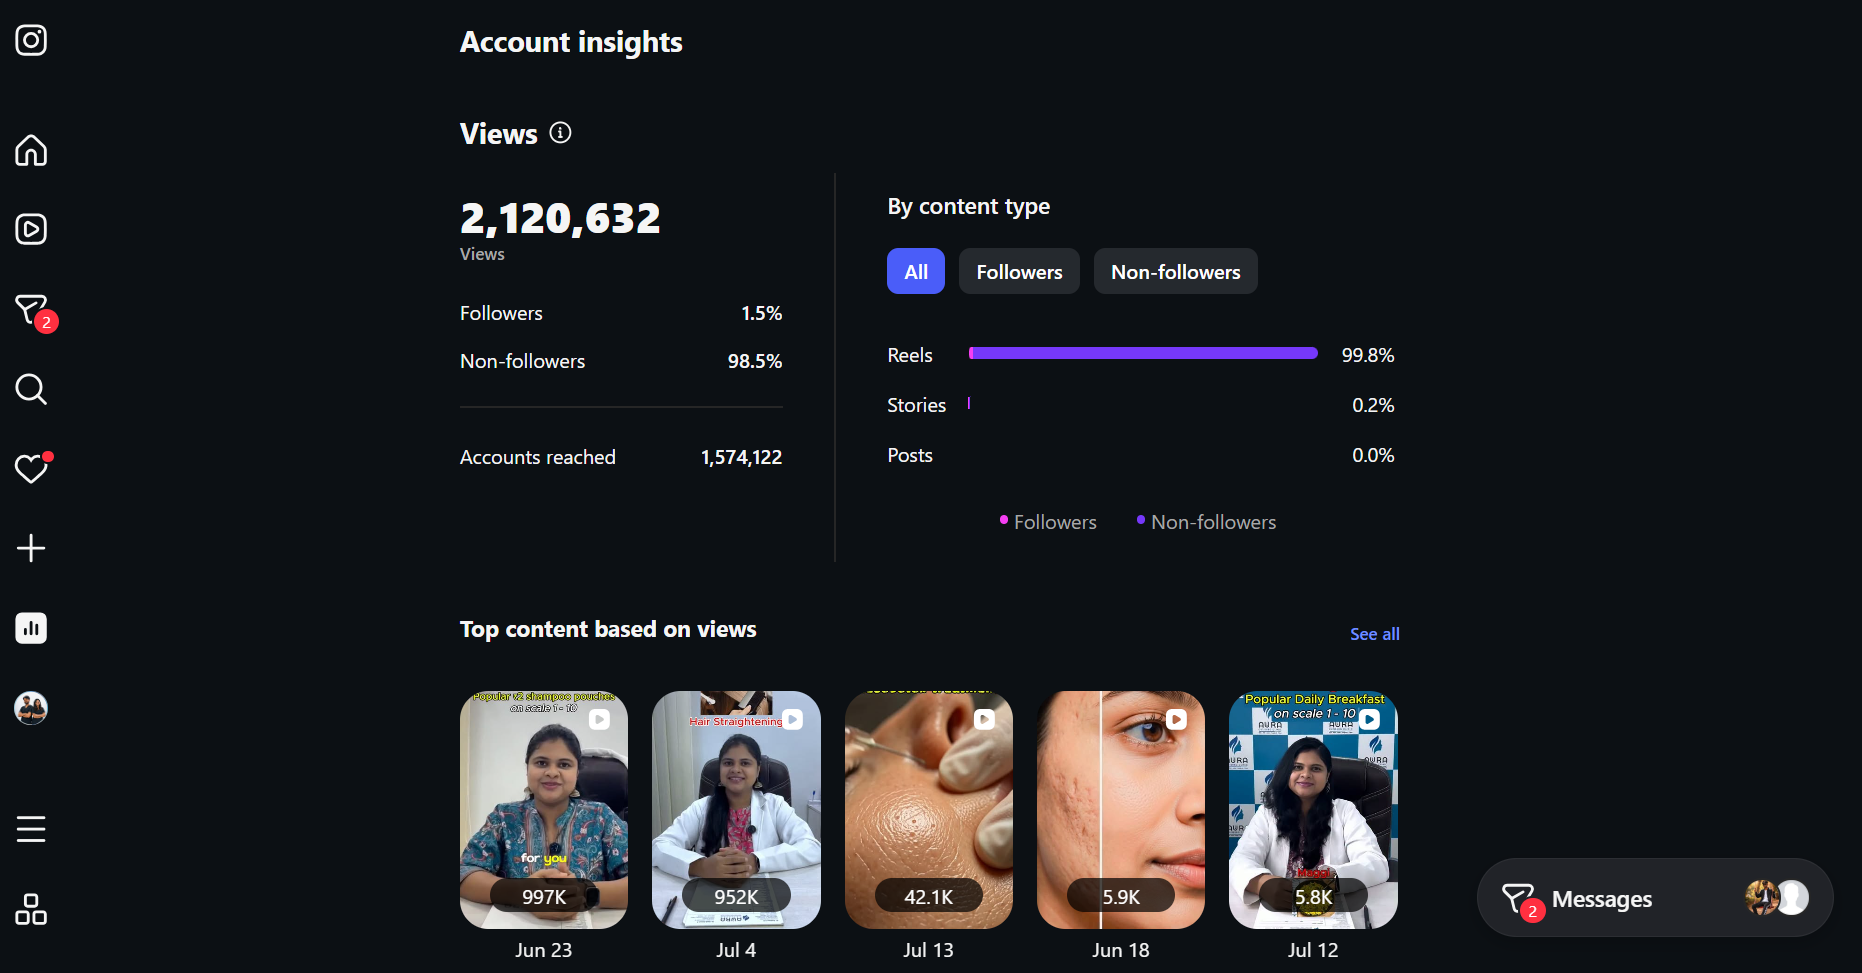
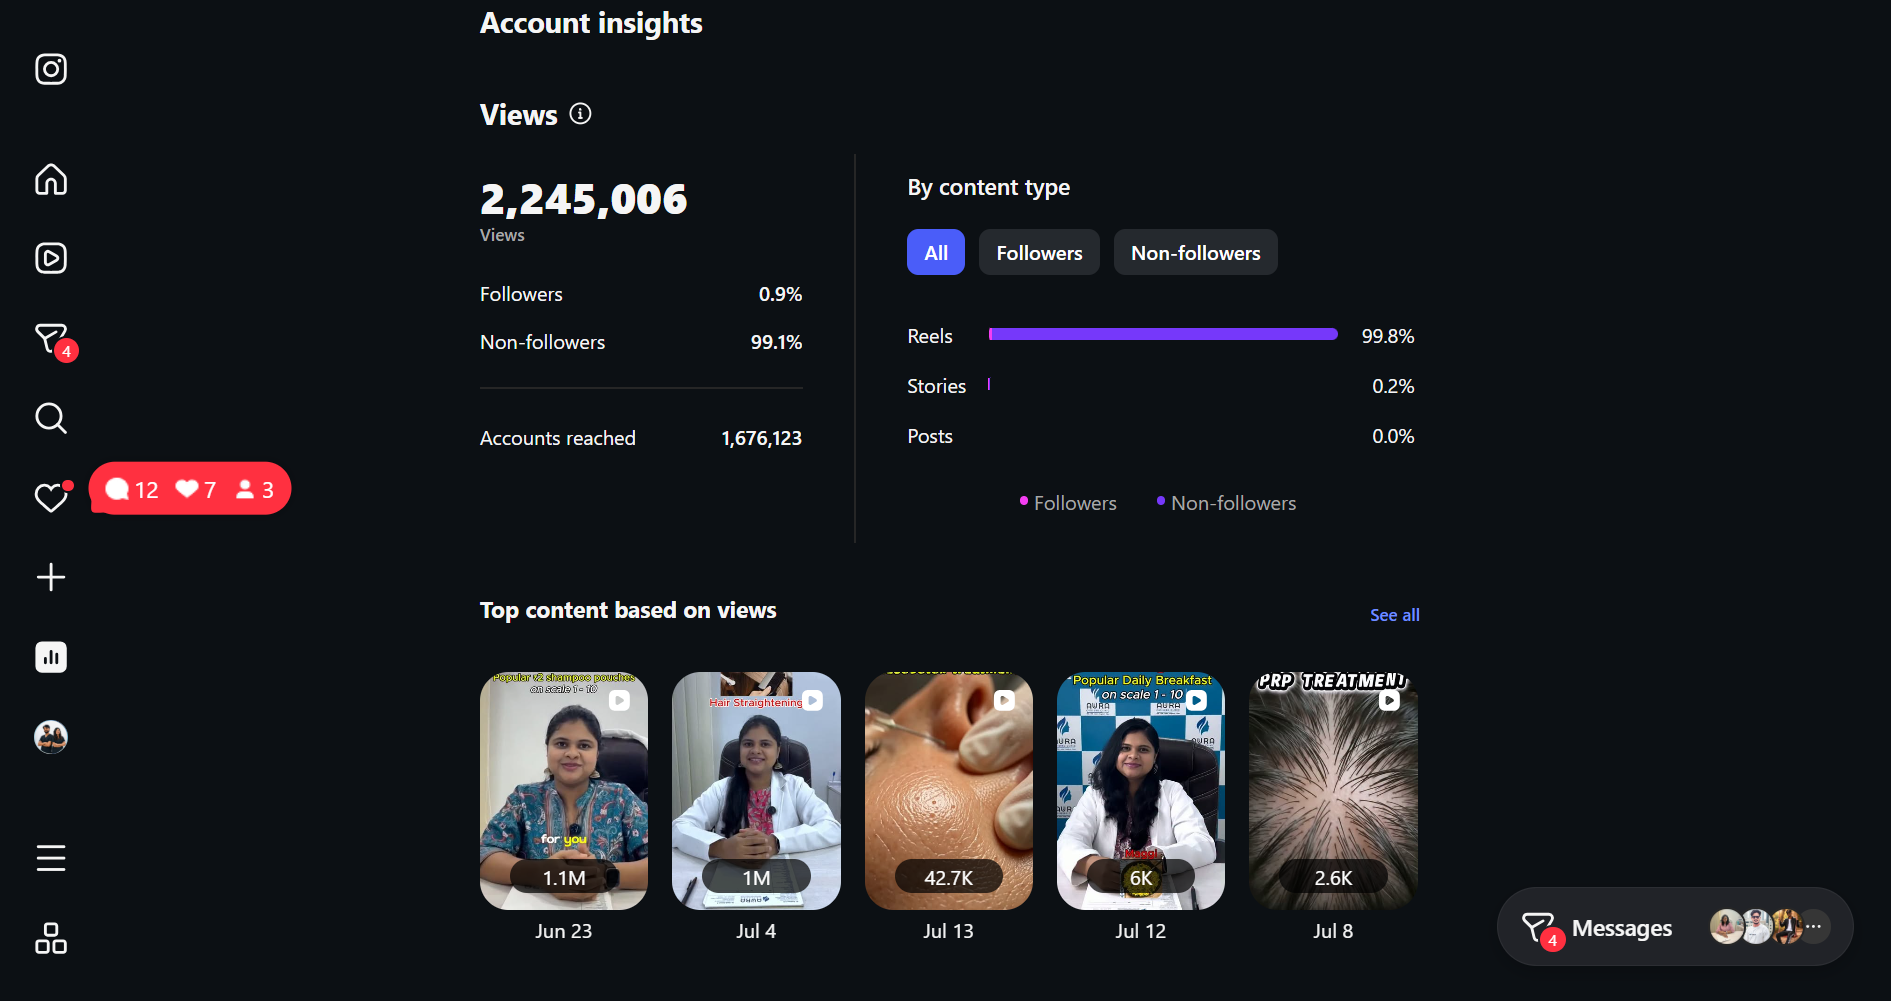
Update hero video, case study images, and content for Aura Cutisurg

diff --git a/app/page.tsx b/app/page.tsx
@@ -231,14 +231,13 @@ export default function HomePage() {
                 <div className="relative">
                   {/* Main image frame */}
                   <div className="bg-white backdrop-blur-sm border border-border rounded-2xl p-4 overflow-hidden shadow-card">
-                    <div className="bg-surface-gray rounded-xl aspect-[4/3] flex items-center justify-center relative">
-                      <Image
-                        src="/images/hero-section.jpeg"
-                        alt="AutovateNow Healthcare Marketing"
-                        fill
-                        className="object-cover rounded-xl"
-                        sizes="(max-width: 1024px) 100vw, 50vw"
-                        priority
+                    <div className="bg-surface-gray rounded-xl aspect-[4/3] flex items-center justify-center relative overflow-hidden">
+                      <video
+                        src="/videos/client-testimonial.mp4"
+                        poster="/images/hero-section.jpeg"
+                        className="object-cover w-full h-full rounded-xl"
+                        controls
+                        playsInline
                       />
 
                       {/* Floating stat cards */}
@@ -350,7 +349,7 @@ export default function HomePage() {
                     Aura Cutisurg Clinic
                   </h2>
                   <p className="text-blue-100 text-base leading-relaxed mb-8">
-                    A Bangalore skin, hair, cosmetics and surgery clinic. Zero meaningful digital presence. Within 45 days: 2.1 million Instagram views, a viral reel approaching 1M views, and 57 direct patient leads from ₹2,004 in ad spend.
+                    A Bangalore skin, hair, cosmetics and surgery clinic. Zero meaningful digital presence. Within 45 days: 2 videos got in trending with 1 million views each, and 57 direct patient leads from ₹2,004 in ad spend.
                   </p>
                   {/* Key Stats */}
                   <div className="grid grid-cols-3 gap-4 mb-8">
@@ -383,7 +382,7 @@ export default function HomePage() {
                     </div>
                     <div className="relative rounded-xl overflow-hidden aspect-square bg-white/10">
                       <Image
-                        src="/images/case-studies/reel-1.jpg"
+                        src="/images/case-studies/reel-2.png"
                         alt="Aura Cutisurg viral reel screenshot"
                         fill
                         className="object-cover"

diff --git a/app/case-studies/aura-cutisurg-clinic/page.tsx b/app/case-studies/aura-cutisurg-clinic/page.tsx
@@ -13,7 +13,7 @@ const Instagram = ({ size, className }: { size: number, className?: string }) =>
 export const metadata: Metadata = {
   title: "Aura Cutisurg Clinic Case Study — 2.1M+ Views & 57 Leads | AutovateNow",
   description:
-    "How AutovateNow helped Aura Cutisurg Clinic, Bangalore generate 2.1M+ Instagram views, a viral 1M-view reel, and 57 patient leads with ₹2,004 in ad spend. Full healthcare marketing case study.",
+    "How AutovateNow helped Aura Cutisurg Clinic, Bangalore generate 2.1M+ Instagram views, 2 trending reels with 1 million views each, and 57 patient leads with ₹2,004 in ad spend. Full healthcare marketing case study.",
   alternates: { canonical: "https://autovaternow.com/case-studies/aura-cutisurg-clinic" },
 };
 
@@ -114,7 +114,7 @@ export default function AuraCasStudyPage() {
                   Aura Cutisurg Clinic Case Study
                 </h1>
                 <p className="text-blue-100 text-base leading-relaxed mb-8">
-                  How a Bangalore skin, hair, cosmetics, and surgery clinic built digital authority, generated 2,120,632+ Instagram views, and produced 57 messaging leads with just ₹2,004.49 in ad spend.
+                  How a Bangalore skin, hair, cosmetics, and surgery clinic built digital authority, generated 2,120,632+ Instagram views, and produced 57 messaging leads with just ₹2,004.49 in ad spend. 2 videos got in trending with 1 million views each.
                 </p>
                 {/* 3 Floating stat cards */}
                 <div className="flex flex-wrap gap-3 mb-8">
@@ -370,12 +370,12 @@ export default function AuraCasStudyPage() {
         {/* ── CONTENT & VIRAL REELS ── */}
         <section className="py-16 lg:py-20 bg-surface-gray">
           <div className="max-w-4xl mx-auto px-4 sm:px-6 lg:px-8">
-            <SectionHeader eyebrow="Content Strategy" title="30+ pieces, 2.1M views, one viral reel approaching 1M" align="left" />
+            <SectionHeader eyebrow="Content Strategy" title="30+ pieces, 2.1M views, 2 trending videos with 1M views each" align="left" />
             <p className="text-text-secondary leading-relaxed mb-4">
               AutovateNow created short-form educational healthcare content designed to be simple, relatable, and highly shareable. Instead of generic clinic promotions, the strategy focused on doctor-led Reels around skincare, haircare, treatments, myths, and patient-interest topics.
             </p>
             <p className="text-text-secondary leading-relaxed mb-8">
-              The result: content that resonated far beyond the existing follower base — with 98.5% of views coming from non-followers, and a single reel reaching approximately 997K views.
+              The result: content that resonated far beyond the existing follower base — with 98.5% of views coming from non-followers, and 2 videos got in trending with 1 million views each.
             </p>
 
             {/* Content Insight Cards */}
@@ -512,7 +512,7 @@ export default function AuraCasStudyPage() {
                 { v: "30+", l: "Content pieces in 45 days" },
                 { v: "2,120,632+", l: "Instagram views" },
                 { v: "1.57M+", l: "Accounts reached" },
-                { v: "~1M", l: "Views on single viral reel" },
+                { v: "2", l: "Trending reels with 1M views each" },
                 { v: "57", l: "Patient messages generated" },
                 { v: "₹34.95", l: "Cost per patient conversation" },
               ].map((s) => (
@@ -545,21 +545,21 @@ export default function AuraCasStudyPage() {
           </div>
         </section>
 
-        {/* ── TESTIMONIAL PLACEHOLDER ── */}
+        {/* ── TESTIMONIAL ── */}
         <section className="py-12 bg-surface-gray">
           <div className="max-w-3xl mx-auto px-4 sm:px-6 lg:px-8">
             <div className="bg-white rounded-2xl border border-border p-8 relative overflow-hidden">
               <div className="absolute top-4 right-4 text-6xl text-brand-blue/10 font-heading font-bold">"</div>
               <div className="text-xs font-semibold text-brand-blue uppercase tracking-wider mb-4">Client Testimonial</div>
               <p className="text-text-secondary text-base italic leading-relaxed mb-6">
-                [PLACEHOLDER — Real testimonial quote from Dr. S.R. Radhika or Dr. Sunil Kumar, Aura Cutisurg Clinic. To be collected and added before site launch.]
+                "We've been working with Lohith for 45 days now, and he's truly an expert in marketing. From day one, he set up the right foundation, positioned our clinic apart from the crowd, and built a strong strategy focused on educating people and building authority. The results speak for themselves: 2.1+ million views and 10+ new patient visits. What I really value is that his agency handles everything end-to-end—SEO, content creation, performance marketing, and website development—so we didn’t have to worry about anything. He is transparent, humble, and genuinely committed. I highly recommend Lohith and AutovateNow to any doctor, clinic, or hospital owner looking to grow their digital presence."
               </p>
               <div className="flex items-center gap-3">
                 <div className="w-10 h-10 rounded-full bg-brand-blue-light flex items-center justify-center font-heading font-bold text-brand-blue">
-                  A
+                  SR
                 </div>
                 <div>
-                  <div className="font-heading font-semibold text-sm text-text-primary">Dr. [Name]</div>
+                  <div className="font-heading font-semibold text-sm text-text-primary">Dr. S.R. Radhika</div>
                   <div className="text-xs text-text-muted">Aura Cutisurg Clinic, Bengaluru</div>
                 </div>
               </div>